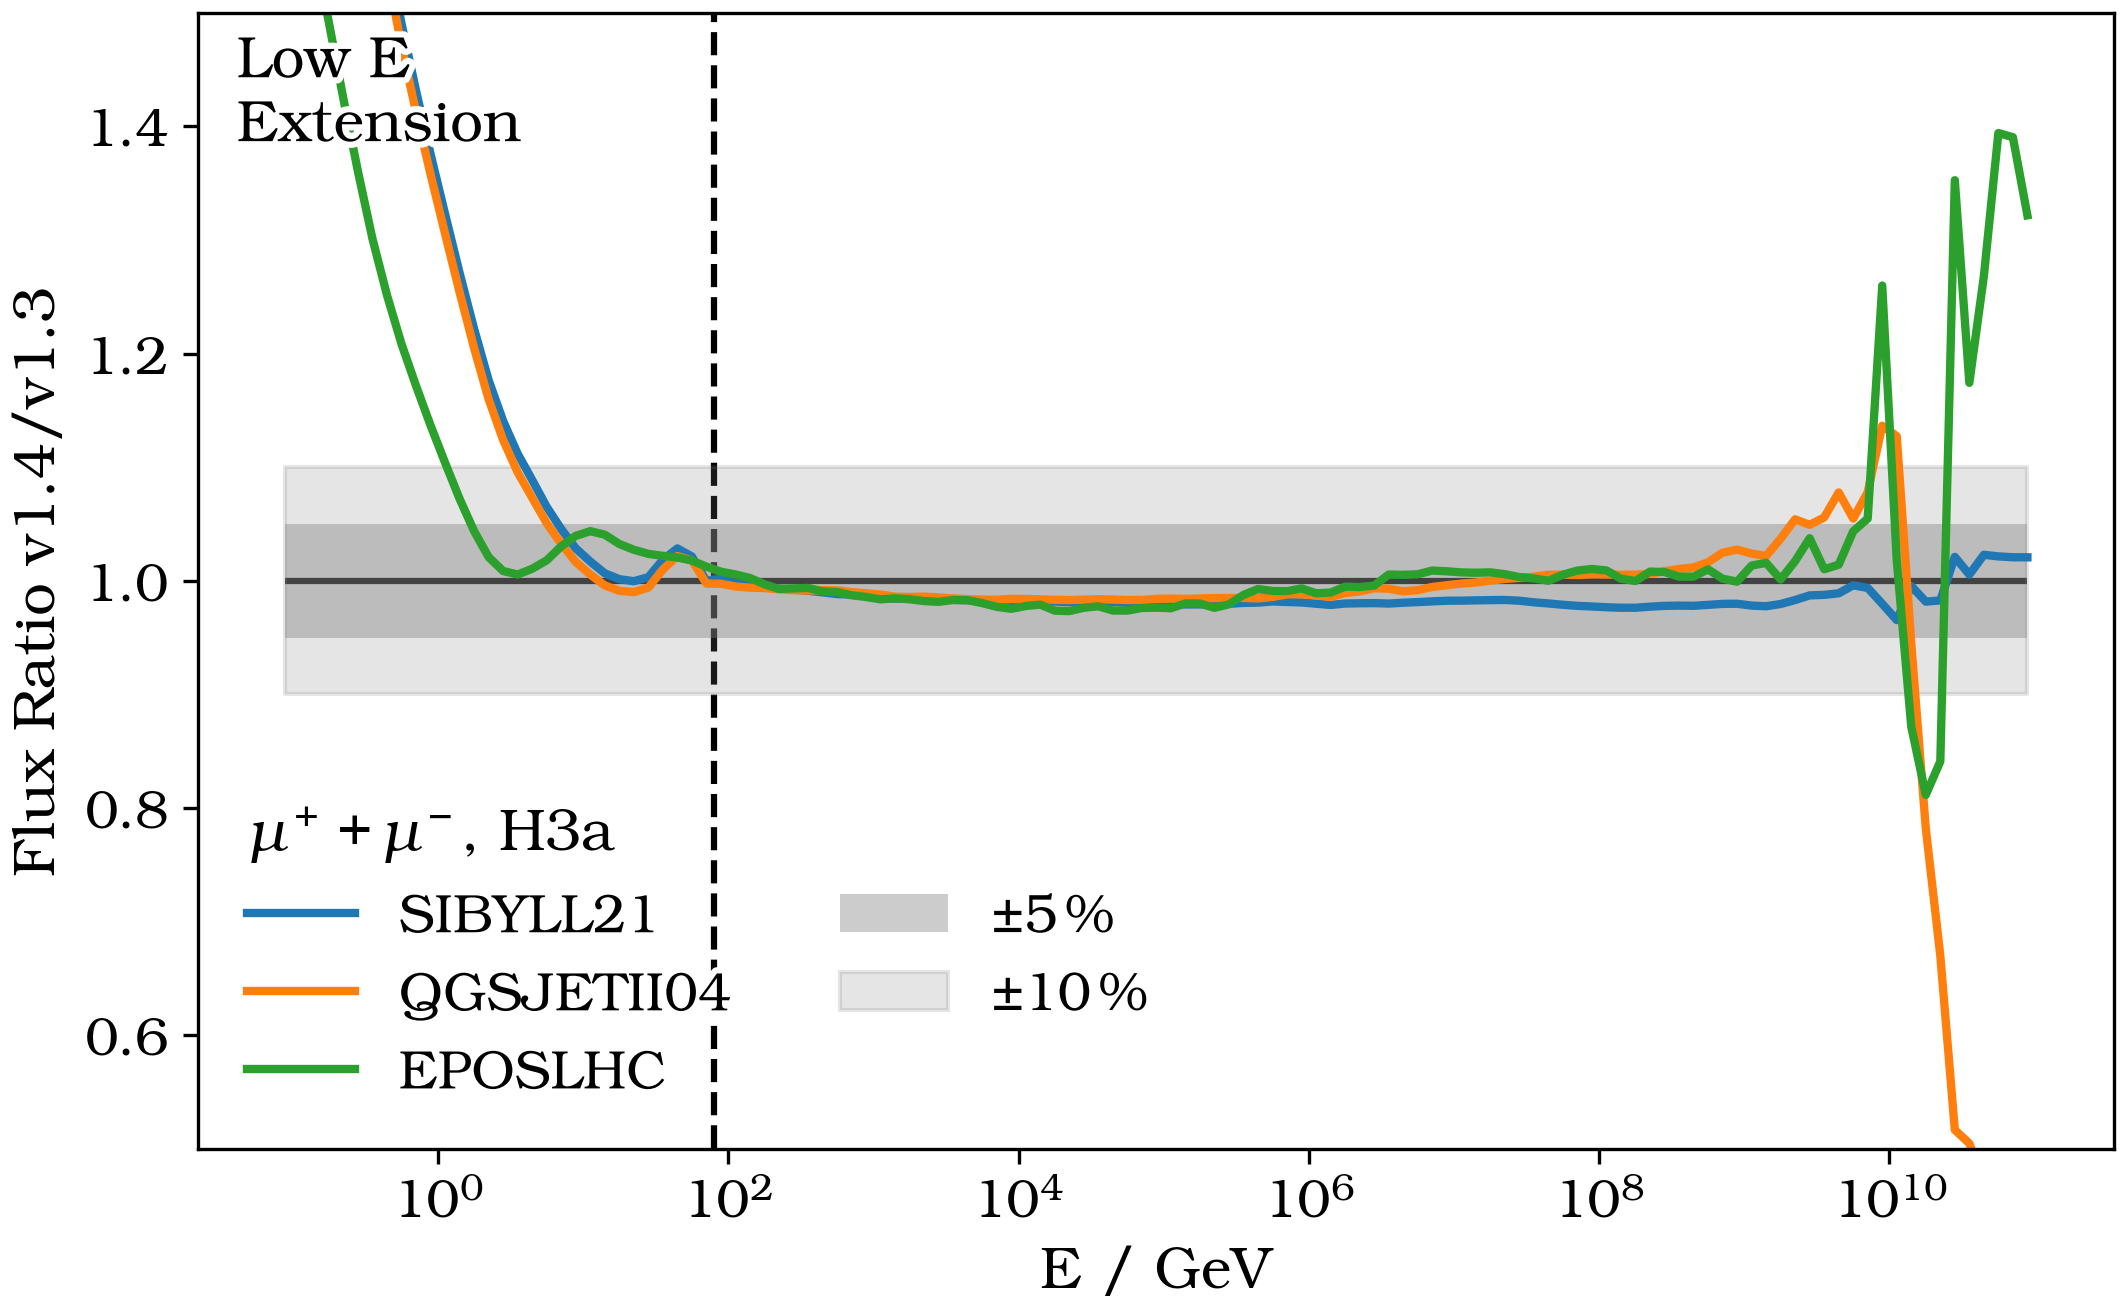
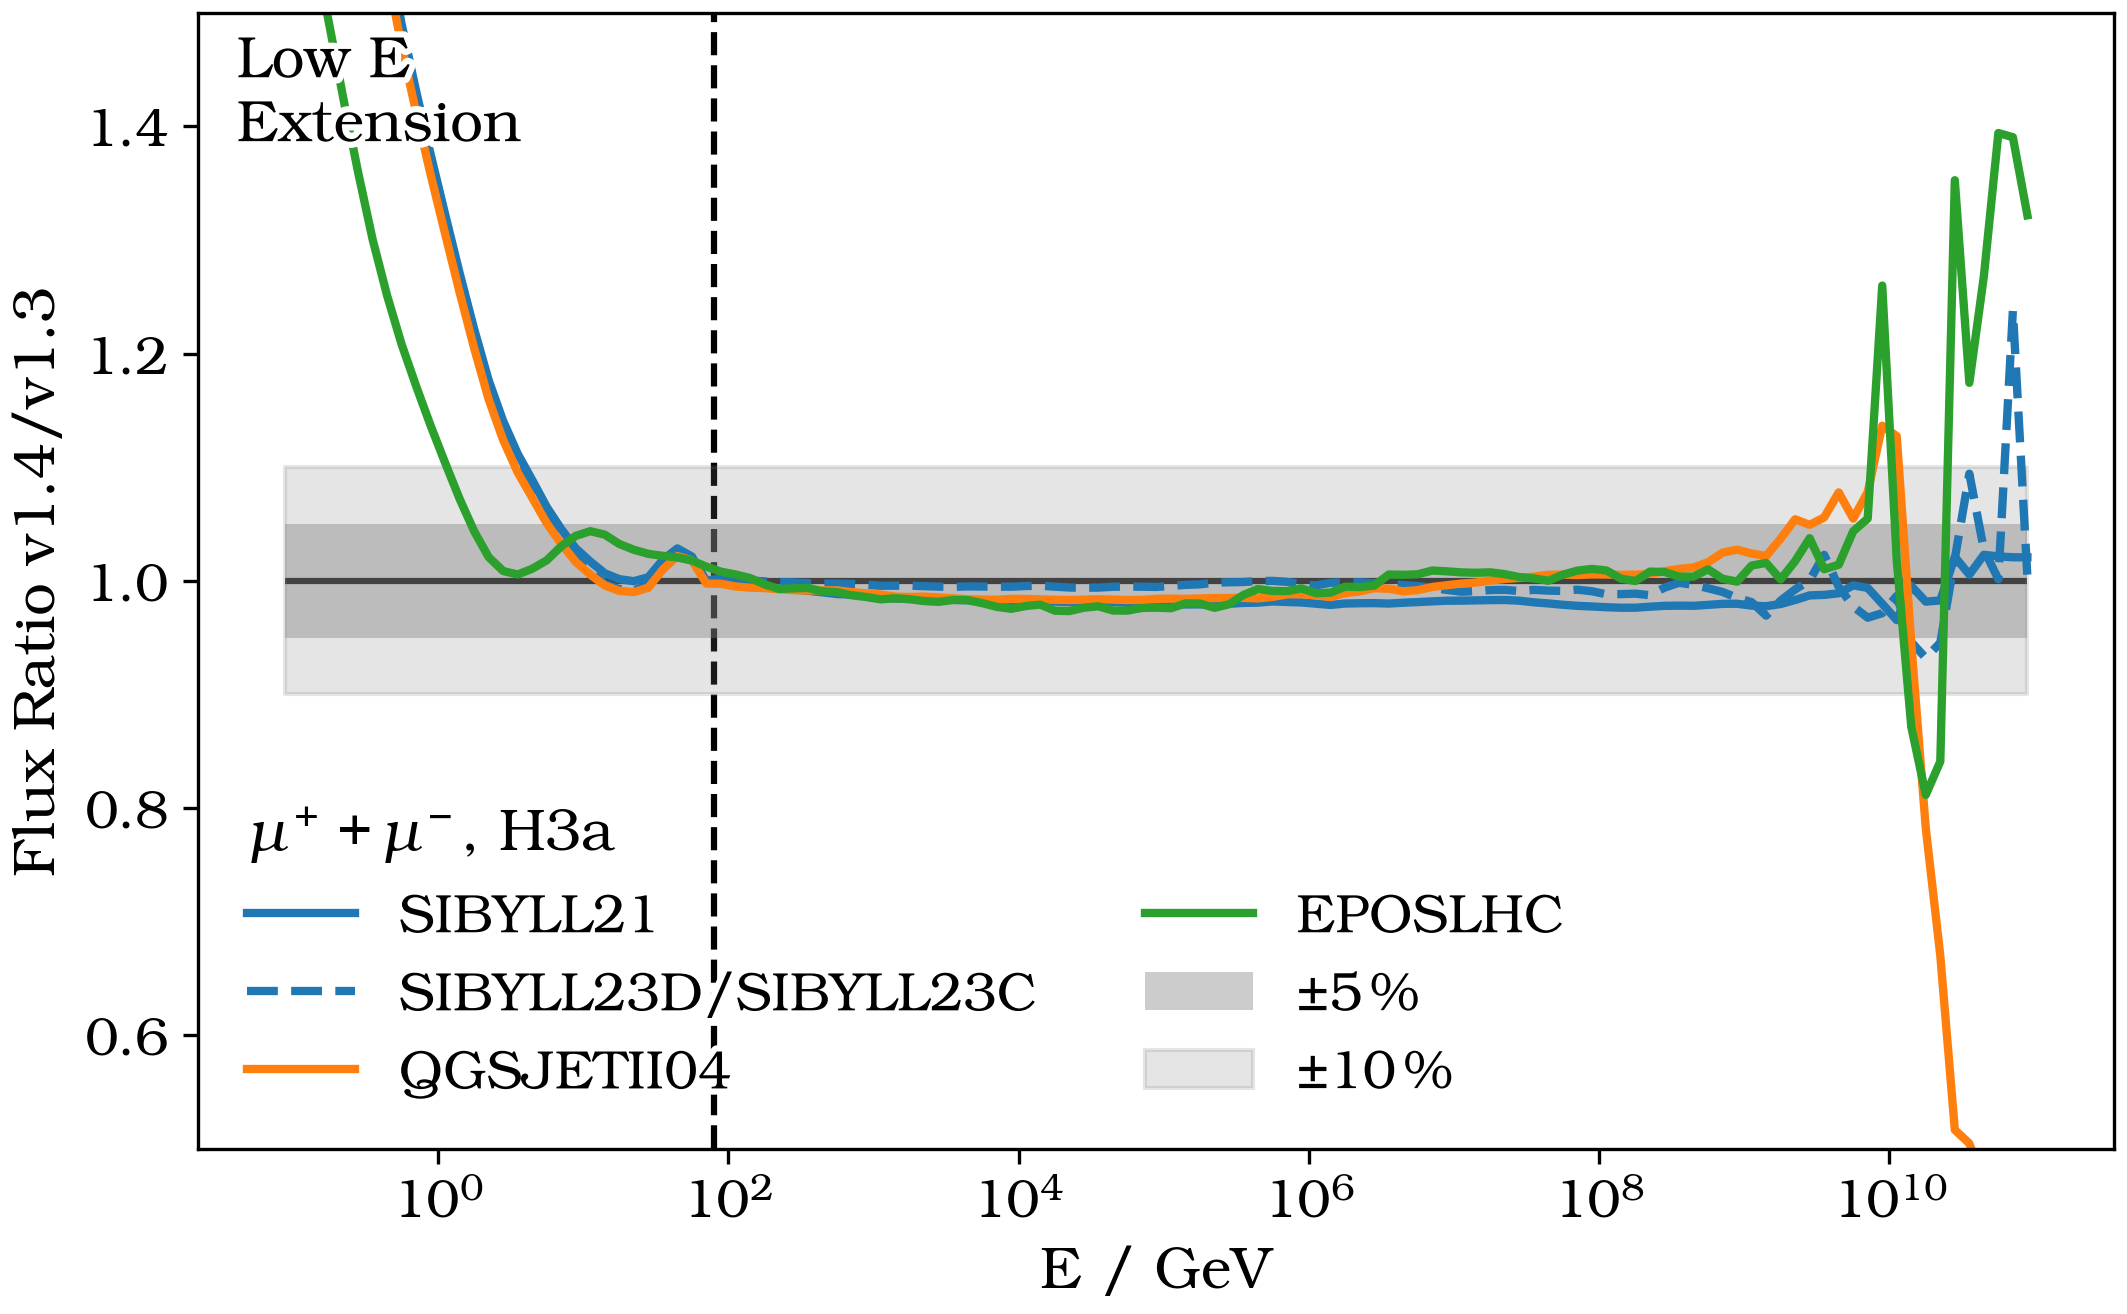
sib23c

diff --git a/docs/v14v13_diff.rst b/docs/v14v13_diff.rst
@@ -20,12 +20,11 @@ The significant changes are updates to the MCEq database!
 
    | The new database is composed of a set of **baseline models** (Sibyll-2.1, QGSjetII04, Epos-LHC),
    | to provide a comparison between MCEq v1.3 and v1.4, as well as a set of **new models** (Sibyll-2.3d, Sibyll-2.3e, QGSjetIII, DPMJetIII-19.3, Epos-LHC-R).
-   | All hadronic interaction yields in the database have been updated and various bugs have been fixed in the yield matrix construction.
+   | All hadronic interaction yields in the database have been updated.
 
 2. Decay Yields
 
    | The calculation of decay yields moved completly to the *Pythia* interface of chromo_.
-   | Decays are now computed in the rest-frame of the particle of interest.
 
 3. Cross Sections
 
@@ -40,6 +39,7 @@ Baseline Comparison
 -------------------
 
 In the following we compare the aforementioned baseline models (Sibyll-2.1, QGSjetII04, Epos-LHC) in v1.4 against v1.3.
+In addition, we compare Sibyll-2.3c from v1.3 with Sibyll-2.3d from v1.4 for completness since it is no longer part of the database.
 
 These resulting ratios are impacted by the above listed changes.
 
